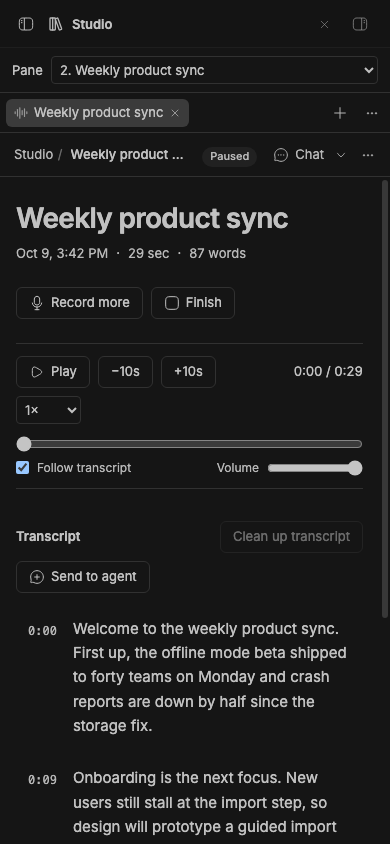
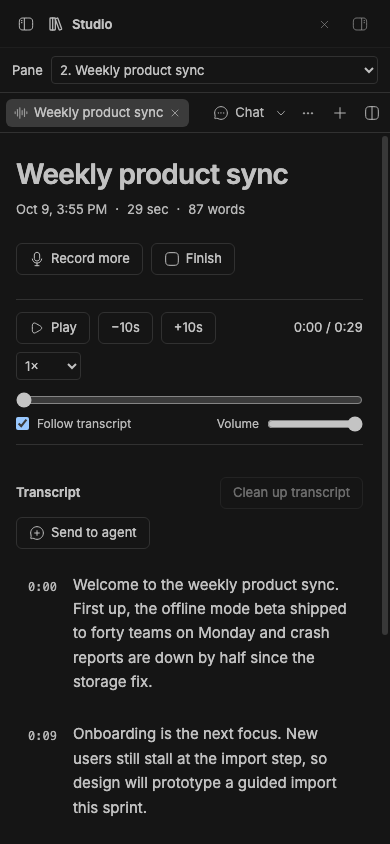
Document and capture the workspace's single tab bar

diff --git a/packages/bb-studio/README.md b/packages/bb-studio/README.md
@@ -15,8 +15,14 @@ a tab bar to move or reorder. The tab arrangement menu offers split and move
 commands, and separators resize with the mouse or arrow keys. Closing a tab
 keeps the item. The workspace remembers the layout locally across visits and
 refreshes. Use **Workspace** in the collection to return, or **+** to browse.
+Each tab row carries the active item's tools, such as Chat, beside its tabs.
+With one pane, the tab row takes BB's title bar, so the item sits under a
+single bar. Open items live here, not in the sidebar; a Space's Browse menu
+opens any of its items as a tab.
 Conversation-side item views continue to work independently. At phone widths, a
 pane picker shows one pane at a time while preserving the desktop arrangement.
+
+![Studio workspace with one pane, its tabs and the page's tools in BB's title bar](assets/workspace-single.png)
 
 ![Studio workspace with a page and recording in separate panes](assets/workspace.png)
 
